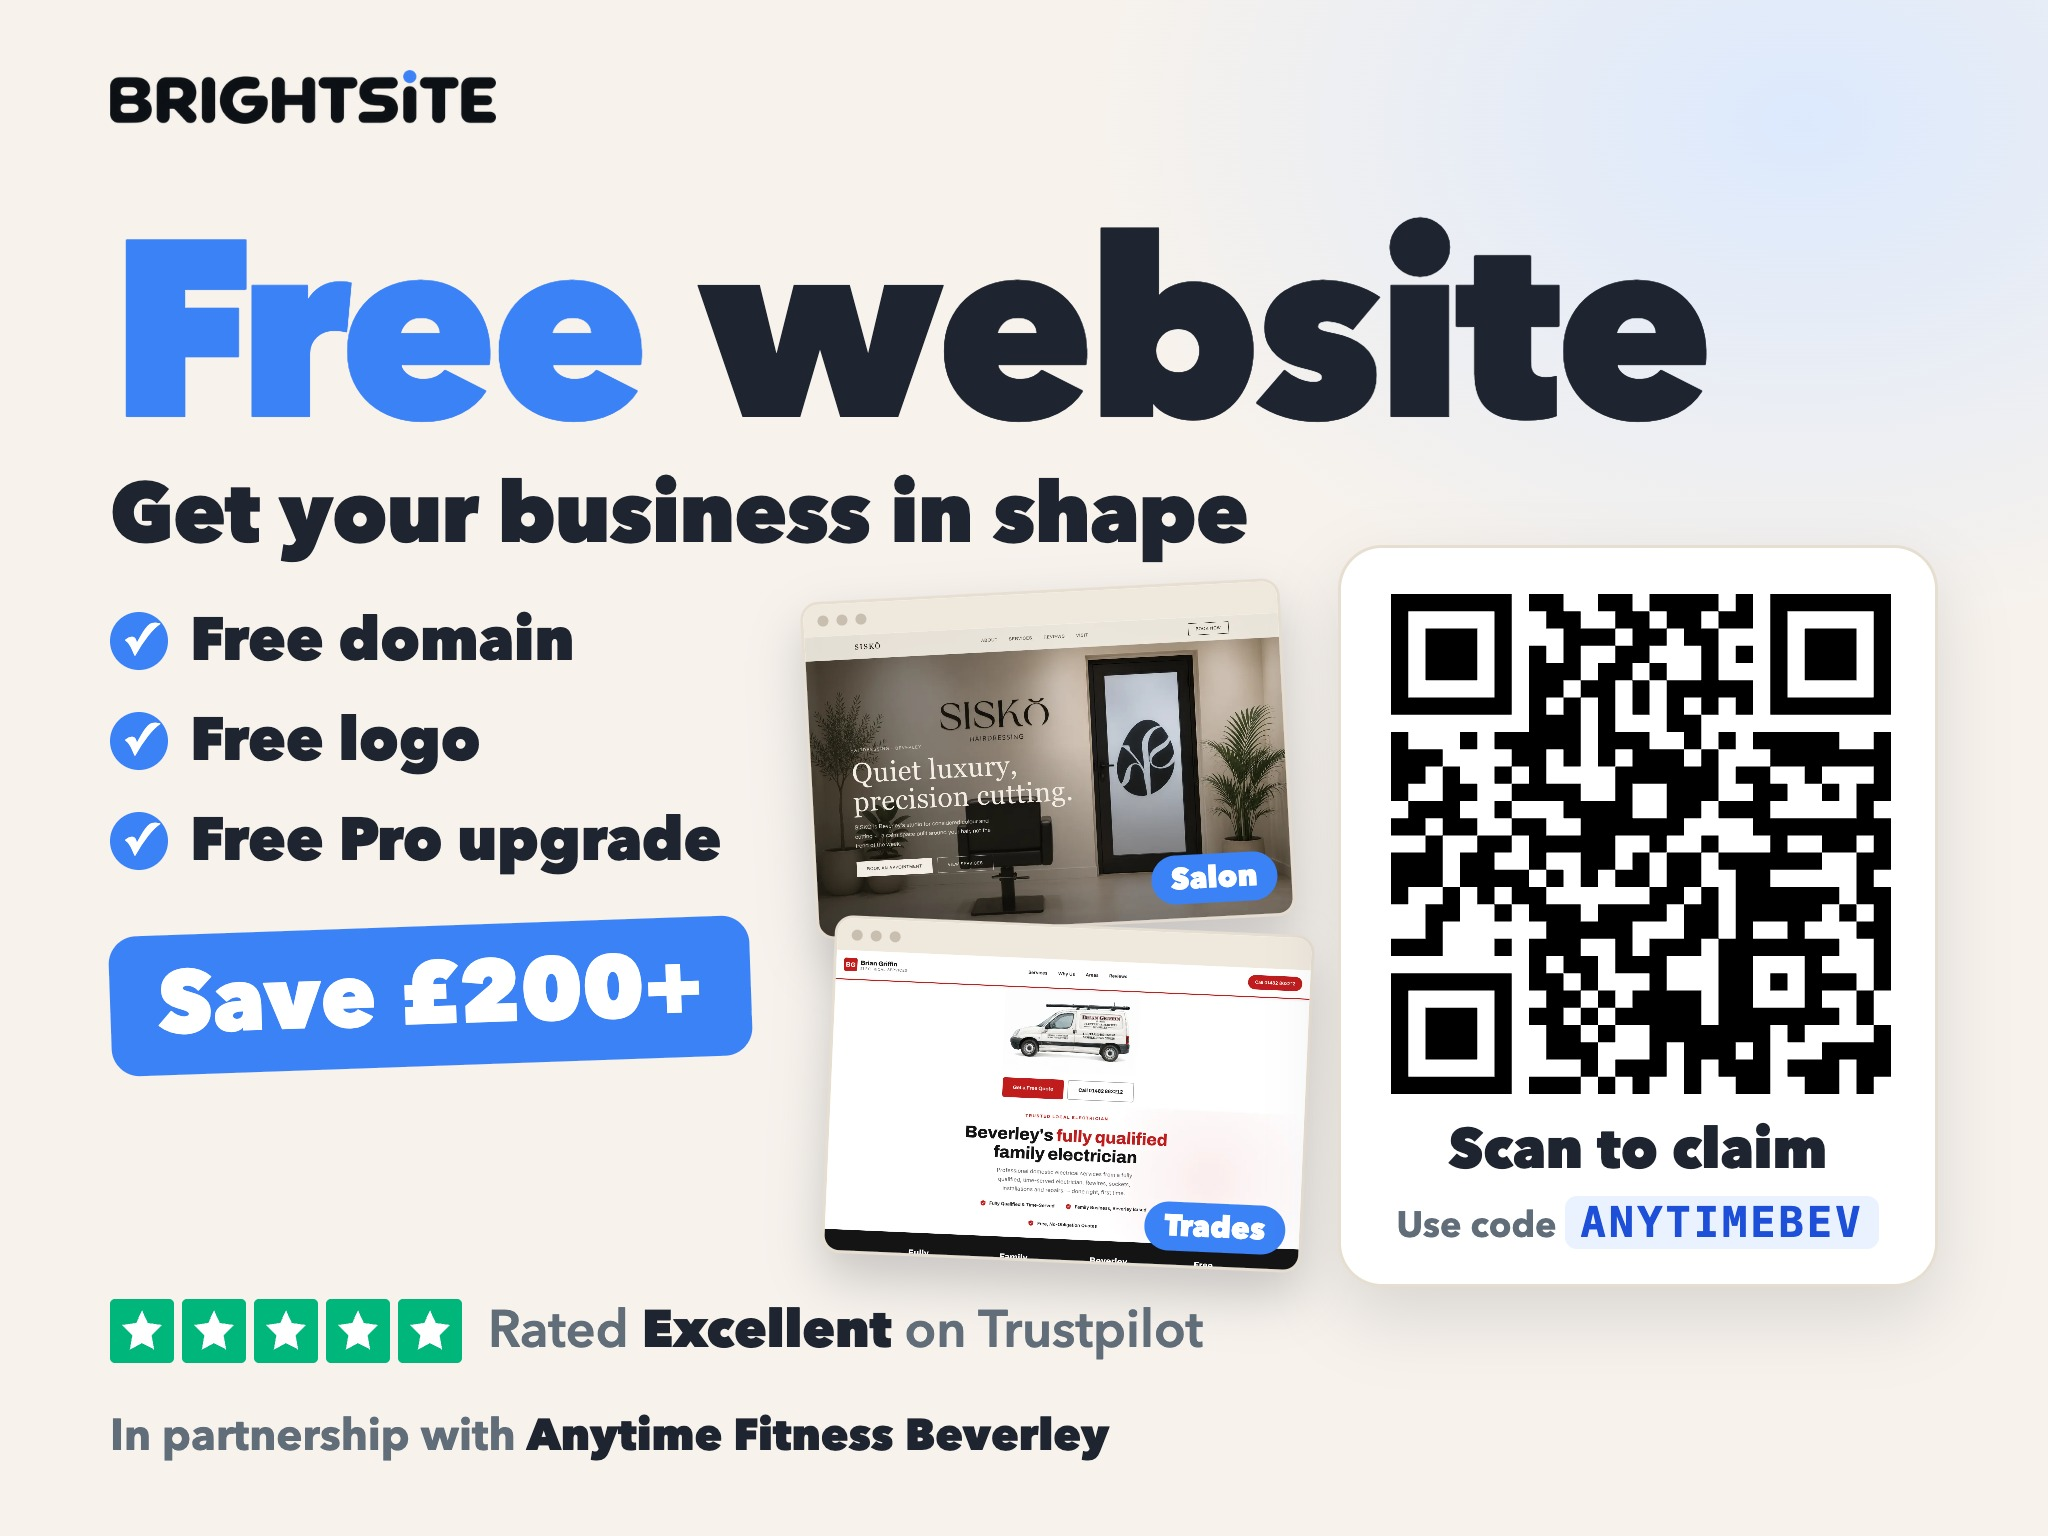
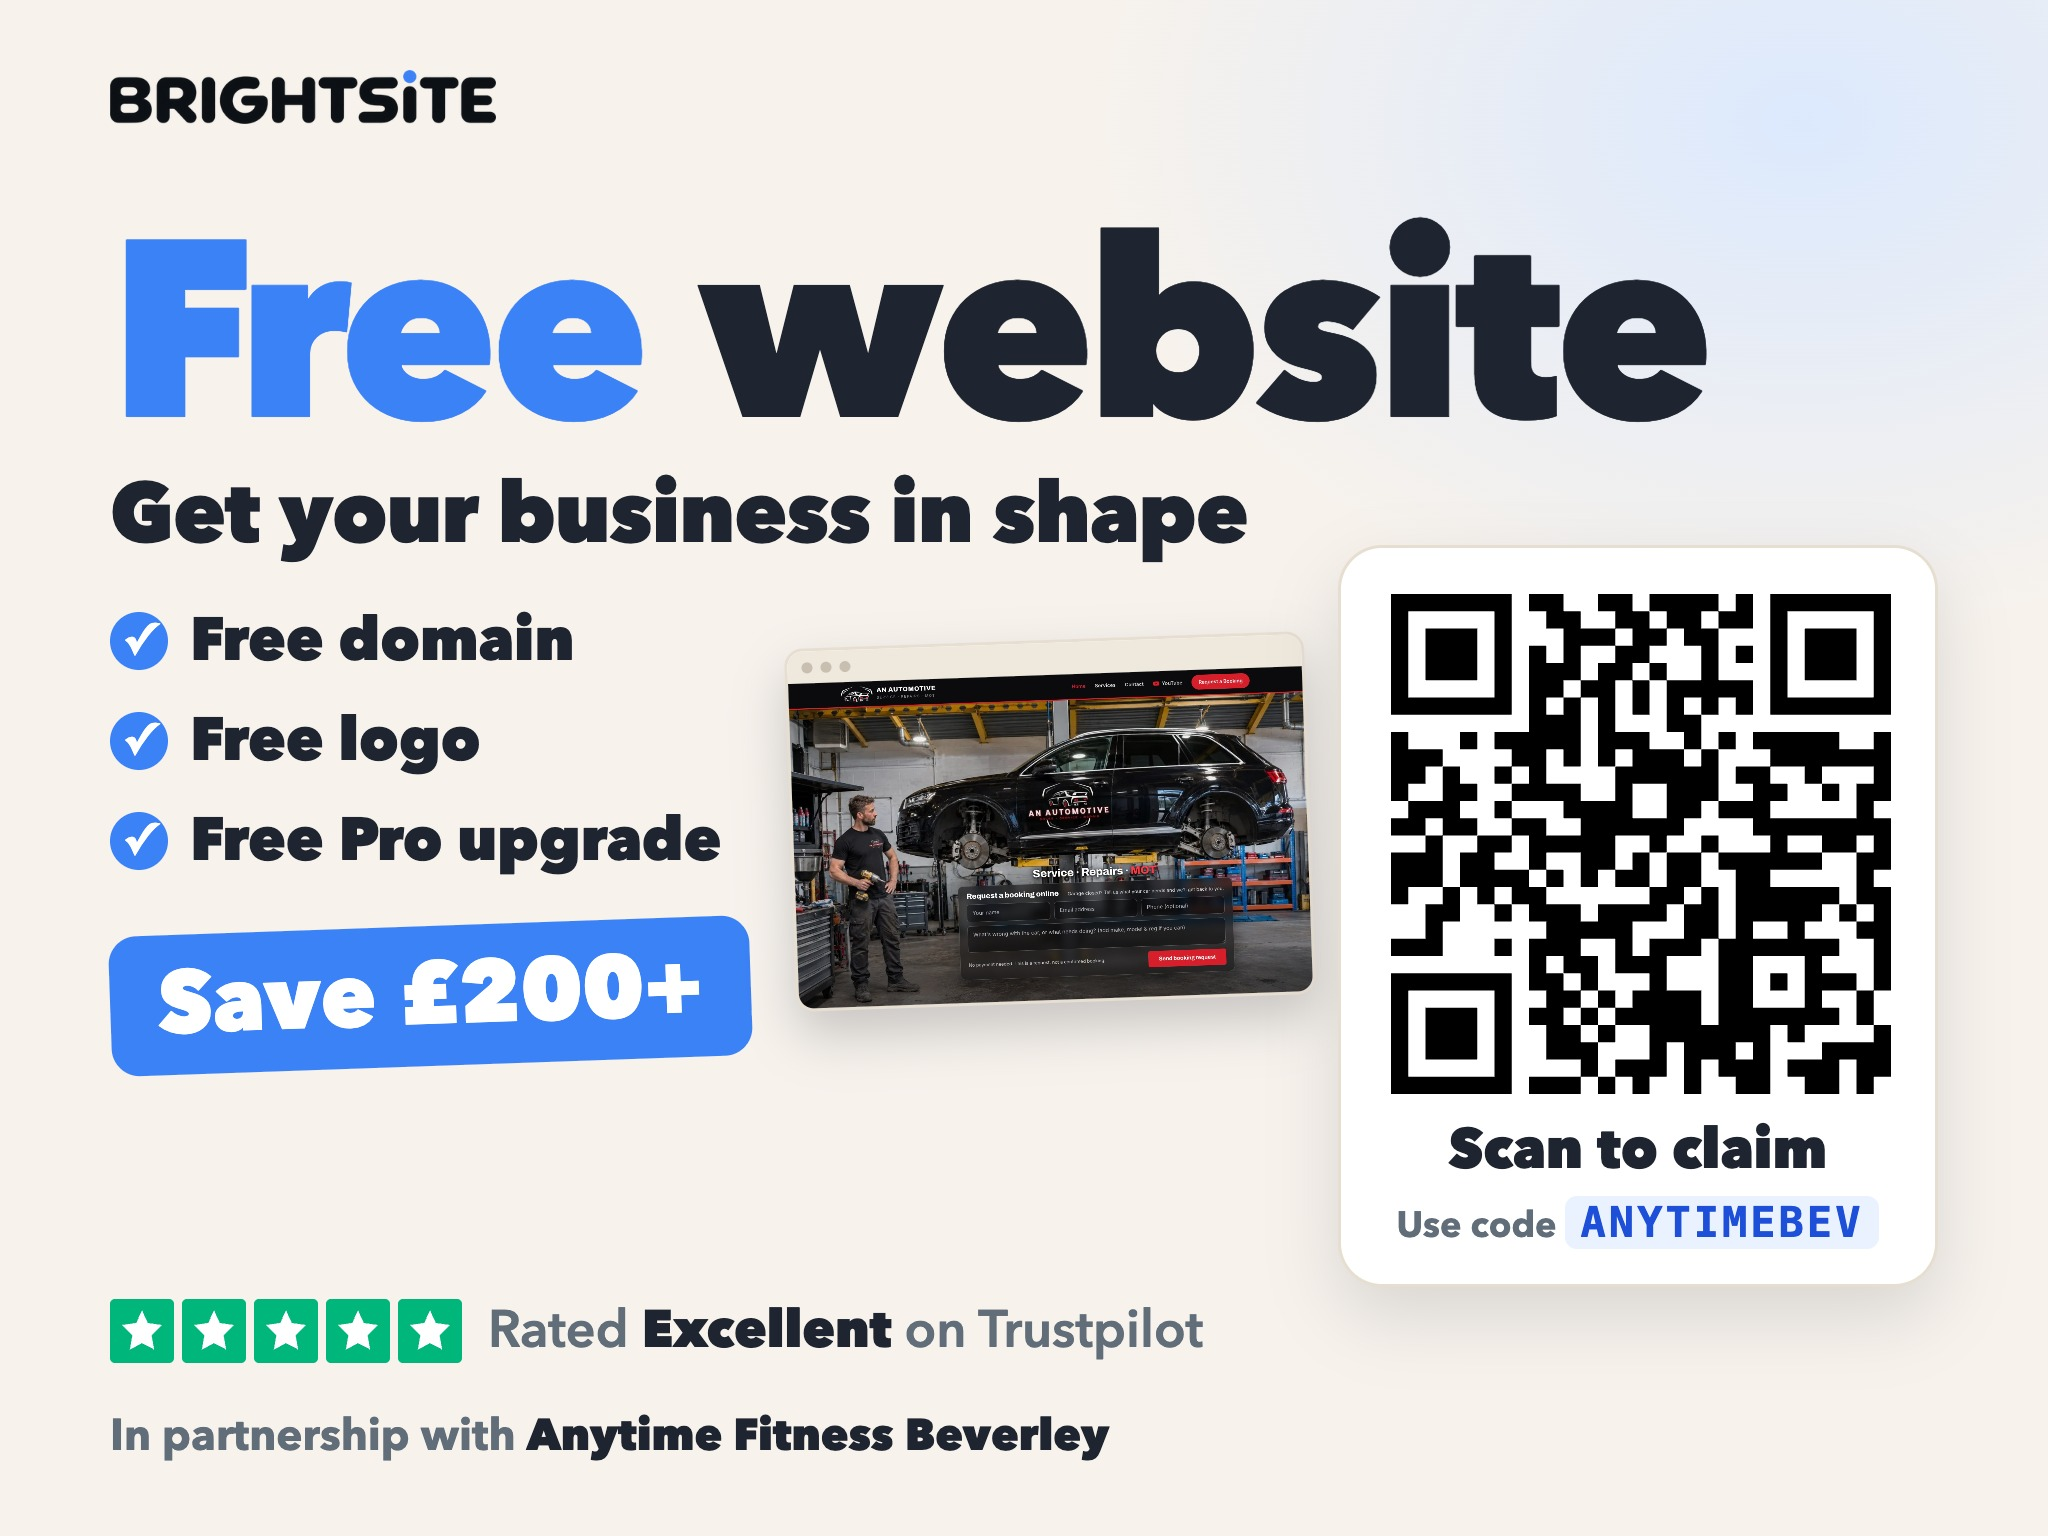
Beverley poster: single AN Automotive mockup with booking form on the hero, less clutter

Changed region(s): [[0.375, 0.4062, 0.6562, 0.8438]]

diff --git a/ads/beverley-poster.html b/ads/beverley-poster.html
@@ -31,10 +31,9 @@
   .site{position:absolute;width:480px;background:#fff;border-radius:18px;overflow:hidden;border:3px solid #E7DED2;box-shadow:0 24px 50px rgba(31,37,48,.22)}
   .site .bar{height:32px;background:#EFE8DD;display:flex;align-items:center;gap:8px;padding:0 14px}
   .site .bar i{width:11px;height:11px;border-radius:50%;background:#C9BFB0;display:block}
-  .site img.shot{display:block;width:100%;height:300px;object-fit:cover;object-position:top}
+  .site img.shot{display:block;width:100%;height:325px;object-fit:cover;object-position:top}
   .site .tag{position:absolute;right:14px;bottom:14px;background:#3B82F6;color:#fff;font-weight:900;font-size:30px;border-radius:999px;padding:4px 20px}
-  .s1{left:808px;top:590px;transform:rotate(-3deg)}
-  .s2{left:828px;top:925px;transform:rotate(2.5deg)}
+  .s1{left:790px;top:640px;width:520px;transform:rotate(-2deg)}
 </style></head>
 <body><div class="poster">
   <div class="logo"><img src="../img/brightsite-logo.png"></div>
@@ -47,8 +46,7 @@
     </div>
     <div class="save">Save &pound;200+</div>
   </div>
-  <div class="site s1"><div class="bar"><i></i><i></i><i></i></div><img class="shot" src="../img/work-previews/sisko.webp"><span class="tag">Salon</span></div>
-  <div class="site s2"><div class="bar"><i></i><i></i><i></i></div><img class="shot" src="../img/work-previews/brian-griffin.webp"><span class="tag">Trades</span></div>
+  <div class="site s1"><div class="bar"><i></i><i></i><i></i></div><img class="shot" src="an-automotive-hero.jpg"></div>
   <div class="qr">
     <img src="beverley-qr.svg">
     <div class="scan">Scan to claim</div>
